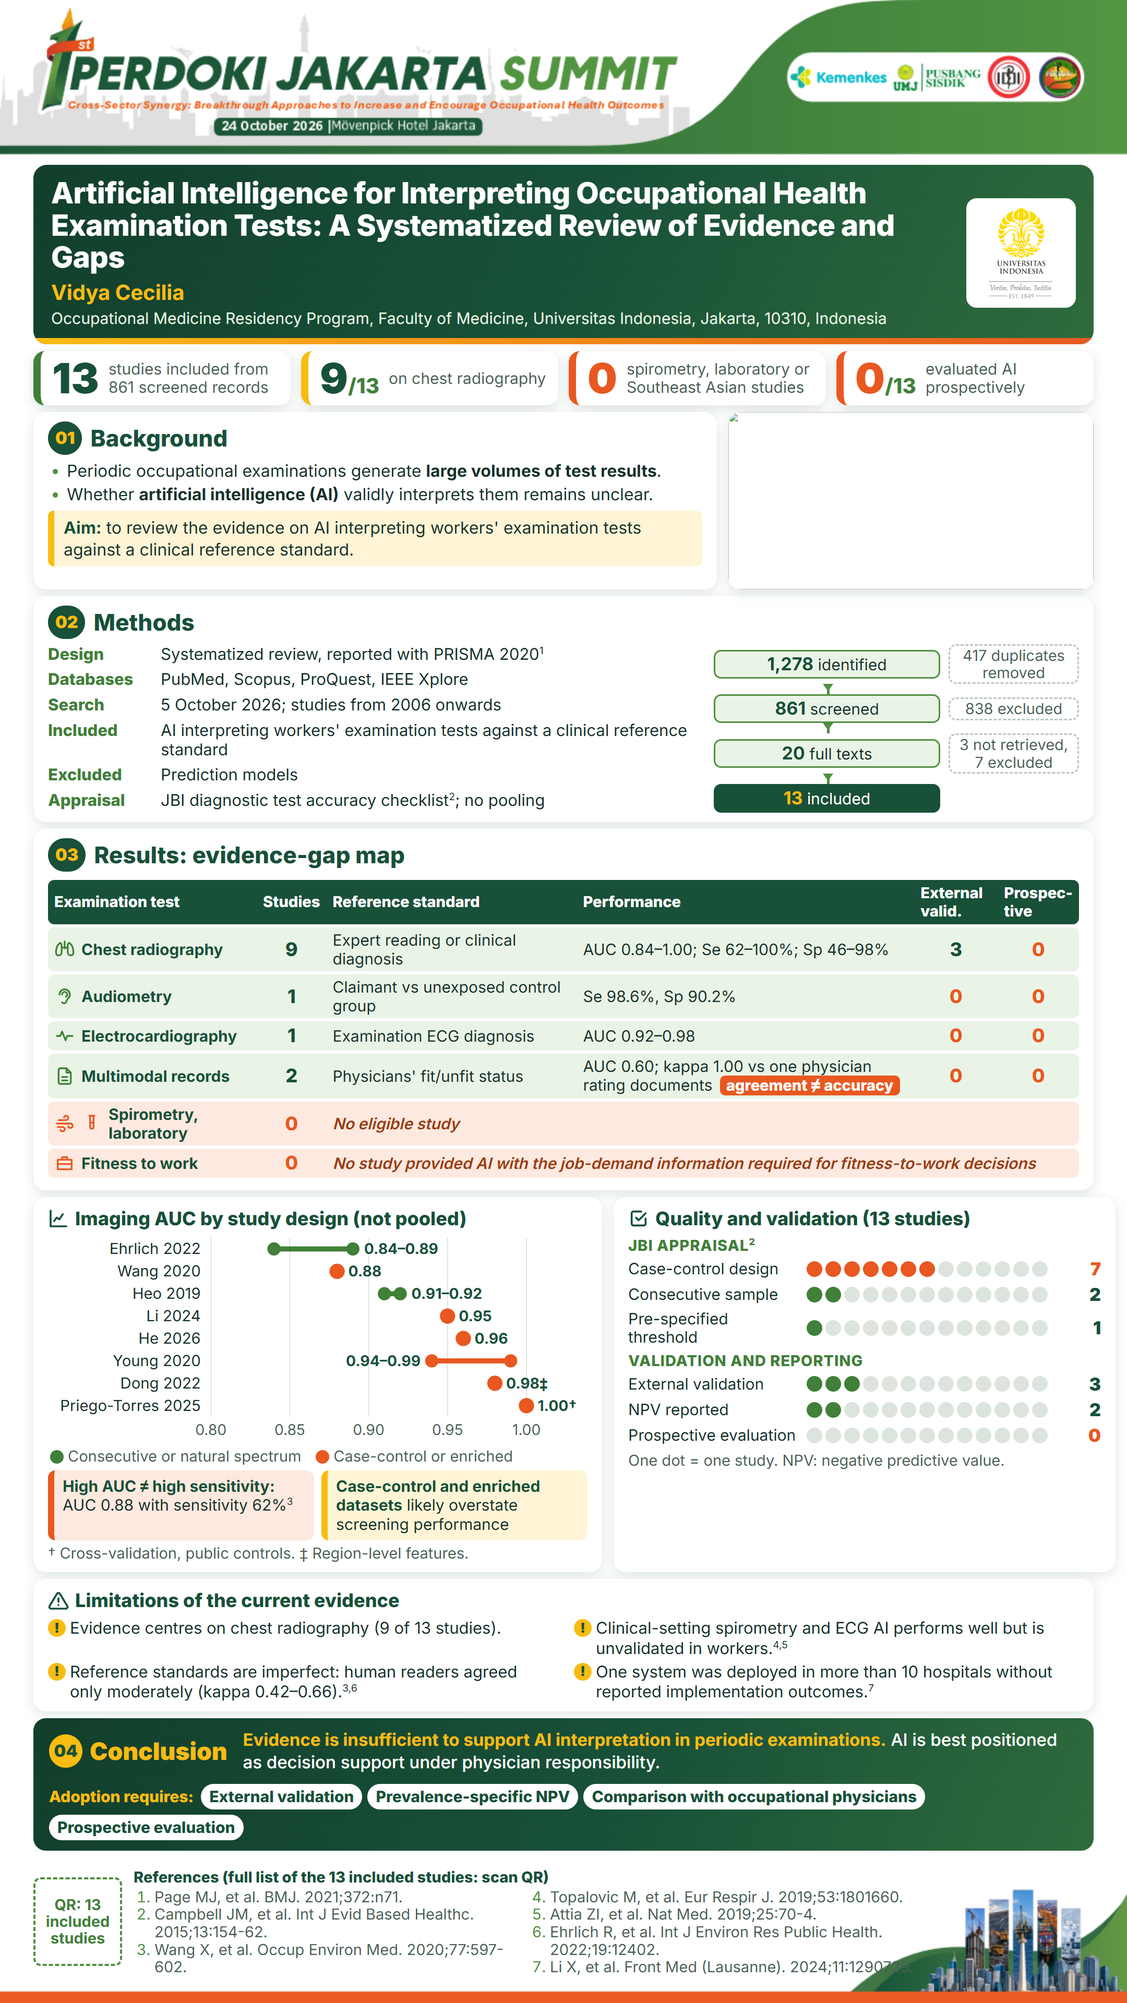
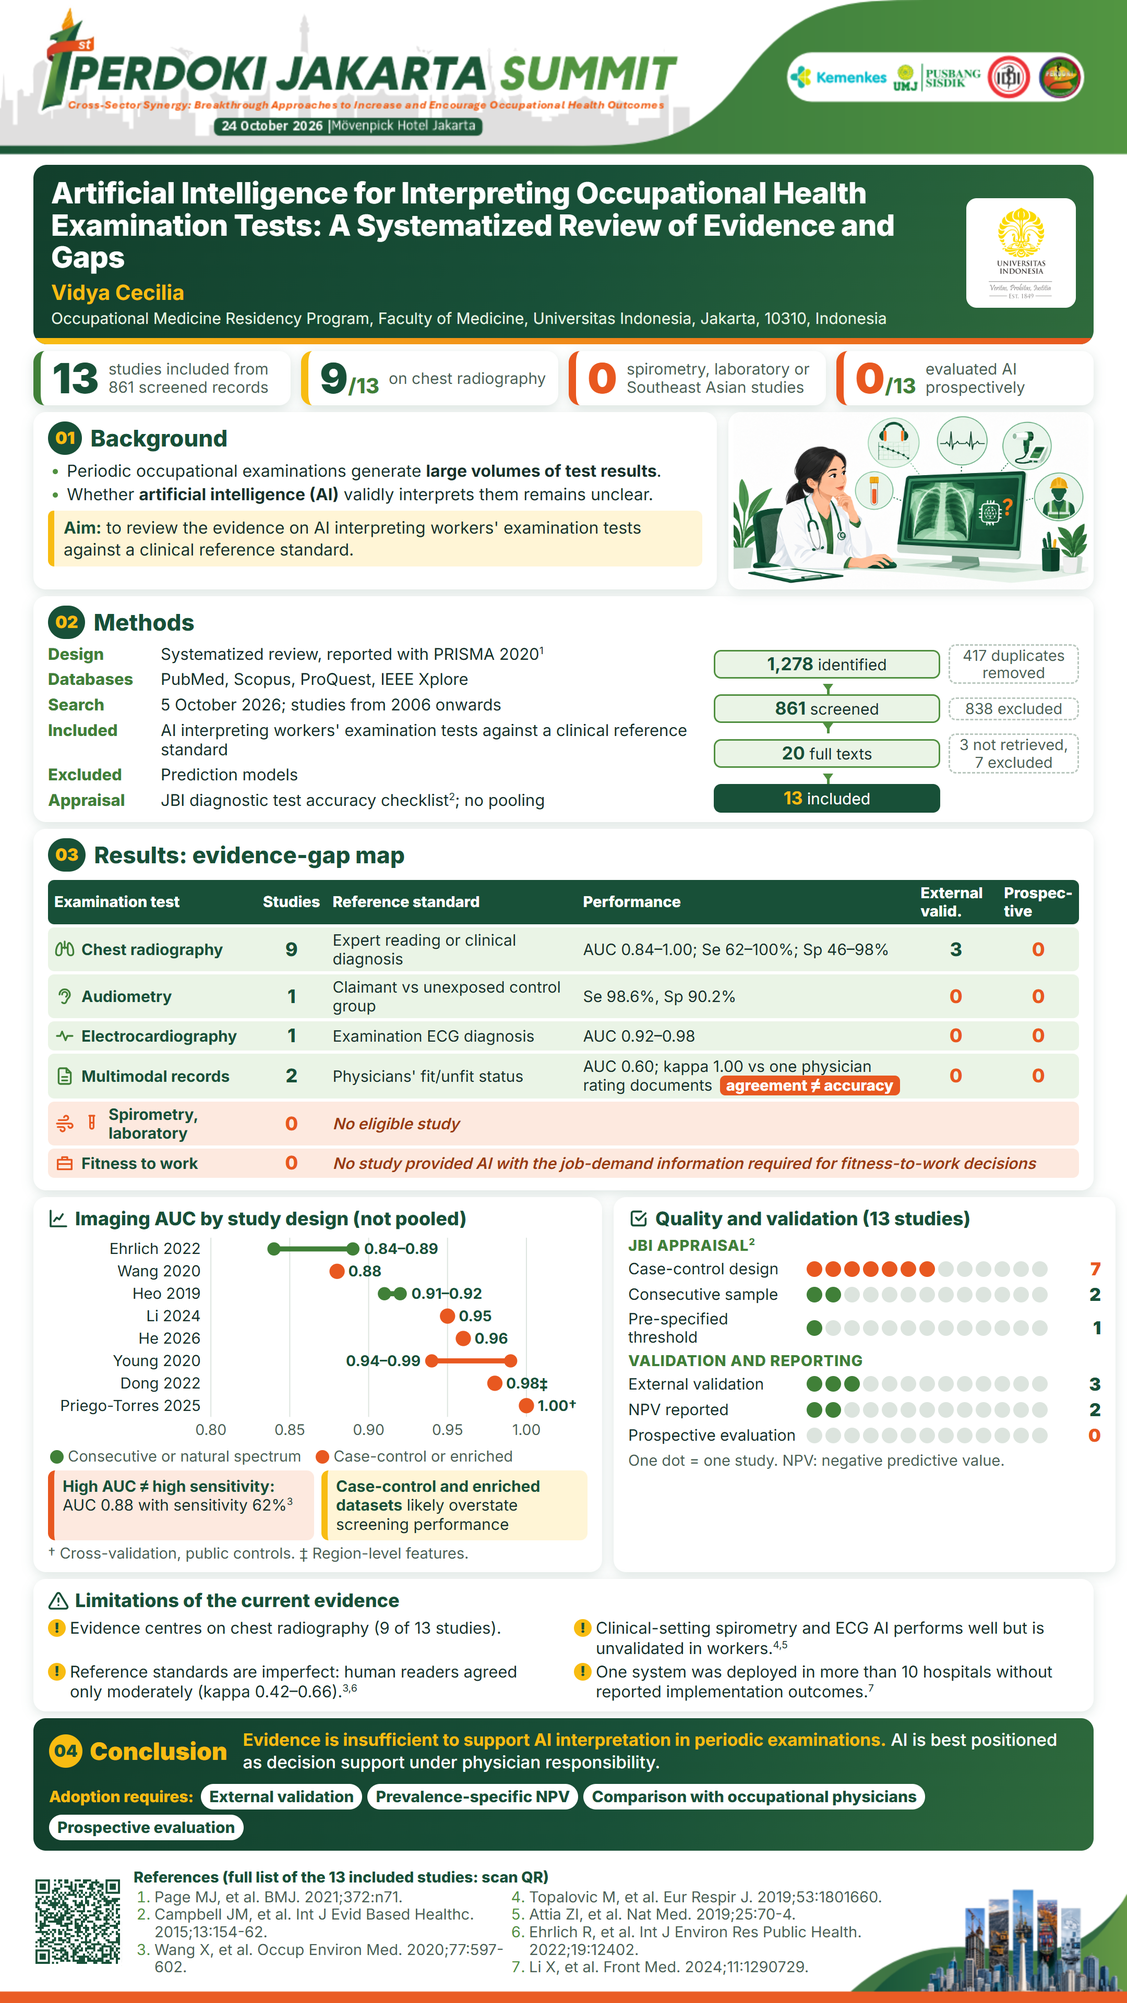
Add illustration and QR to Jakarta Summit e-poster; fit references clear of template footer

Changed region(s): [[0.6514, 0.1875, 0.9616, 0.3125], [0.4653, 0.9375, 0.7755, 1.0], [0.031, 0.9375, 0.1241, 1.0]]

diff --git a/Poster Jkt Summit eposter/supplement_gdoc.html b/Poster Jkt Summit eposter/supplement_gdoc.html
@@ -1,0 +1,10 @@
+<html><body style="font-family:Arial">
+<h1 style="color:#185038">Artificial Intelligence for Interpreting Occupational Health Examination Tests: A Systematized Review of Evidence and Gaps</h1>
+<p>Supplement to the e-poster, 1st PERDOKI Jakarta Summit 2026. Vidya Cecilia, Occupational Medicine Residency Program, Faculty of Medicine, Universitas Indonesia.</p>
+<h2 style="color:#185038">Included studies (n = 13)</h2><ol><li>Heo SJ, Kim Y, Yun S, Lim SS, Kim J, Nam CM, et al. Deep learning algorithms with demographic information help to detect tuberculosis in chest radiographs in annual workers&#x27; health examination data. Int J Environ Res Public Health. 2019;16(2):250. doi: 10.3390/ijerph16020250</li><li>Wang X, Yu J, Zhu Q, Li S, Zhao Z, Yang B, et al. Potential of deep learning in assessing pneumoconiosis depicted on digital chest radiography. Occup Environ Med. 2020;77(9):597-602. doi: 10.1136/oemed-2019-106386</li><li>Young C, Barker S, Ehrlich R, Kistnasamy B, Yassi A. Computer-aided detection for tuberculosis and silicosis in chest radiographs of gold miners of South Africa. Int J Tuberc Lung Dis. 2020;24(4):444-51. doi: 10.5588/ijtld.19.0624</li><li>Charapaqui-Miranda S, Arapa-Apaza K, Meza-Rodriguez M, Chacon-Torrico H. Comparing predictive machine learning algorithms in fit for work occupational health assessments. In: Lossio-Ventura JA, Condori-Fernandez N, Valverde-Rebaza JC, editors. Information management and big data. 6th International Conference, SIMBig 2019; 2019 Aug 21-23; Lima, Peru. Cham: Springer; 2020. p. 218-25. (Communications in computer and information science; vol. 1070). doi: 10.1007/978-3-030-46140-9_21</li><li>Ehrlich R, Barker S, Te Water Naude J, Rees D, Kistnasamy B, Naidoo J, et al. Accuracy of computer-aided detection of occupational lung disease: silicosis and pulmonary tuberculosis in ex-miners from the South African gold mines. Int J Environ Res Public Health. 2022;19(19):12402. doi: 10.3390/ijerph191912402</li><li>Wang Y, Chen Z, Tian S, Zhou S, Wang X, Xue L, et al. Convolutional neural network-based ECG-assisted diagnosis for coal workers. Int J Environ Res Public Health. 2022;20(1):9. doi: 10.3390/ijerph20010009</li><li>Li X, Xu M, Yan Z, Xia F, Li S, Zhang Y, et al. Deep convolutional network-based chest radiographs screening model for pneumoconiosis. Front Med (Lausanne). 2024;11:1290729. doi: 10.3389/fmed.2024.1290729</li><li>Liu M, Huang Z, Borek M, Loveless I, Rosenman K, Alessio A, et al. Pneumoconiosis screening and classification using deep learning models. Occup Environ Med. 2026;83(5):276-82. doi: 10.1136/oemed-2026-111040</li><li>He L, Luo Y, Lei J, Yin Q, Yang D, Zhang C, et al. [Evaluation of clinical value of interpretable Transformer-based models in computer-aided diagnosis of early-stage pneumoconiosis]. J Environ Occup Med. 2026;43(7):844-51. Chinese. doi: 10.11836/JEOM25477</li><li>Vella F, Senia P, Filetti V, Vitale E, Sferrazzo G, Privitera L, et al. Application of large language models as decision support tools in occupational health and safety management: a cohort study of industrial workers. Front Public Health. 2026;14:1815316. doi: 10.3389/fpubh.2026.1815316</li><li>Moore BCJ, Schlittenlacher J. Diagnosing noise-induced hearing loss sustained during military service using deep neural networks. Trends Hear. 2023;27:23312165231184982. doi: 10.1177/23312165231184982</li><li>Priego-Torres B, Sanchez-Morillo D, Khalili E, Conde-Sánchez MÁ, García-Gámez A, León-Jiménez A. Automated engineered-stone silicosis screening and staging using deep learning with X-rays. Comput Biol Med. 2025;191:110153. doi: 10.1016/j.compbiomed.2025.110153</li><li>Dong H, Zhu B, Zhang X, Kong X. Use data augmentation for a deep learning classification model with chest X-ray clinical imaging featuring coal workers&#x27; pneumoconiosis. BMC Pulm Med. 2022;22(1):271. doi: 10.1186/s12890-022-02068-x</li></ol>
+<h2 style="color:#185038">Study characteristics and main results</h2>
+<table border="1" style="border-collapse:collapse;font-size:9pt"><tr><th style="background-color:#185038;color:#ffffff;text-align:left">#</th><th style="background-color:#185038;color:#ffffff;text-align:left">Study</th><th style="background-color:#185038;color:#ffffff;text-align:left">Country</th><th style="background-color:#185038;color:#ffffff;text-align:left">Modality / target</th><th style="background-color:#185038;color:#ffffff;text-align:left">Reference standard</th><th style="background-color:#185038;color:#ffffff;text-align:left">Main results</th></tr><tr><td>1</td><td>Heo 2019 (PMID 30654560)</td><td>South Korea</td><td>CXR / tuberculosis</td><td>Radiologist reading under the national QA programme</td><td>Test AUC VGG19 0.9075 (image-only) to 0.9213 (+ demographics), p &lt; 0.05</td></tr><tr><td>2</td><td>Wang 2020 (PMID 32471837)</td><td>China</td><td>CXR / pneumoconiosis vs normal</td><td>Expert panel (1 certified radiologist + 4 occupational physicians), ILO</td><td>AUC 0.878 (95% CI 0.811-0.946) vs radiologists 0.668 and 0.772</td></tr><tr><td>3</td><td>Young 2020 (PMID 32317070)</td><td>South Africa</td><td>CXR / silicosis, TB, silicotuberculosis</td><td>Radiologist + 3 physicians (board); 4 expert readers (screening set)</td><td>Best system AUC 0.986 for any abnormality (Se 98.2, Sp 98.2); TB vs normal 0.989; silicosis vs normal 0.986 (system A), 0.939 (B)</td></tr><tr><td>4</td><td>Charapaqui-Miranda 2020 (Scopus 85084850887)</td><td>Peru</td><td>Multimodal exam data / work-entry MCU fit/unfit category (fit or fit with modifications vs unfit)</td><td>Fit/unfit result recorded by the examining doctor (MCU status, not a 7-step fitness-to-work assessment)</td><td>Best model logistic regression: AUC 60.4%, accuracy 68.1%</td></tr><tr><td>5</td><td>Ehrlich 2022 (PMID 36231700)</td><td>South Africa</td><td>CXR / silicosis, TB, any abnormality</td><td>2 occupational medicine specialists (reader 2 = consensus of two)</td><td>Silicosis AUC 0.883 and 0.839 (ILO &gt;= 1/0), 0.887 and 0.892 (&gt;= 1/1) vs reader 1 and 2 (system A)</td></tr><tr><td>6</td><td>Wang 2022/2023 (PMID 36612331)</td><td>China</td><td>12-lead ECG / 4 abnormal ECG classes</td><td>ECG diagnosis from the examination (cardiologist-performed ECG; labelling procedure not stated explicitly)</td><td>Test accuracy 93.0-97.7%, AUC 0.92-0.98 across 4 ECG classes</td></tr><tr><td>7</td><td>Li 2024 (PMID 38348336)</td><td>China</td><td>CXR / pneumoconiosis vs normal</td><td>10 occupational disease experts + 2 radiologists, 3-5 labellers per film</td><td>Validation set (261 pneumoconiosis, 234 non): accuracy 95%, AUC 0.947</td></tr><tr><td>8</td><td>Liu 2026 (PMID 42457633)</td><td>USA</td><td>CXR / 4 ILO-aligned tasks (1-2 screening, 3-4 grading)</td><td>Consensus of certified B-readers (2 + third on disagreement)</td><td>In-distribution accuracy 0.93, 0.92, 0.91 (tasks 1-3), 0.83 (task 4) vs B-readers 0.90, 0.91, 0.77, 0.86</td></tr><tr><td>9</td><td>He 2026 (Scopus 105046943496)</td><td>China</td><td>CXR / early pneumoconiosis, binary</td><td>Consensus of 3 senior radiologists</td><td>CrossFormer AUC 0.962 (95% CI 0.945-0.979), accuracy 92.0%, F1 0.916</td></tr><tr><td>10</td><td>Vella 2026 (PMID 42180469)</td><td>Italy</td><td>Occupational health records / risk assessment, surveillance protocol, fitness judgements from documents only (4 categories; not a 7-step fitness-to-work assessment)</td><td>Experienced occupational physician</td><td>Perfect concordance of document-based fitness judgments between LLM and physician</td></tr><tr><td>11</td><td>Moore 2023 (PMID 37550005)</td><td>UK</td><td>Pure-tone audiometry 1-8 kHz both ears + age / military noise-induced hearing loss</td><td>Group membership: claimant with medical report excluding other causes vs unexposed control (no individual diagnosis)</td><td>MLP(18) on test databases: Se 98.6, Sp 90.2, d&#x27; 3.49 (rule-based methods Sp 40-64)</td></tr><tr><td>12</td><td>Priego-Torres 2025 (PMID 40252290)</td><td>Spain</td><td>CXR / silicosis screening (healthy vs silicosis) and staging (SS vs PMF)</td><td>Clinical diagnosis: exposure history, ILO reading and HRCT (ICOERD), some biopsy; controls labelled normal in VinDr</td><td>Screening AUC 1.00, accuracy 0.97-0.99 (4 CNNs); staging SS vs PMF accuracy 0.81-0.84, AUC 0.91-0.94</td></tr><tr><td>13</td><td>Dong 2022 (PMID 35840945)</td><td>China</td><td>CXR / CWP radiographic features (nodules, interstitial change, emphysema)</td><td>Reports from 3 radiologists, reviewed by 2 senior radiologists</td><td>Average AUC 0.98 (nodules 0.97, interstitial 0.96, emphysema 1.00); accuracy 0.96</td></tr></table>
+<h2 style="color:#185038">JBI diagnostic test accuracy checklist (item level; no overall score)</h2>
+<table border="1" style="border-collapse:collapse;font-size:9pt"><tr><th style="background-color:#185038;color:#ffffff;text-align:left">#</th><th style="background-color:#185038;color:#ffffff;text-align:left">Study</th><th style="background-color:#185038;color:#ffffff;text-align:left">Q1</th><th style="background-color:#185038;color:#ffffff;text-align:left">Q2</th><th style="background-color:#185038;color:#ffffff;text-align:left">Q3</th><th style="background-color:#185038;color:#ffffff;text-align:left">Q4</th><th style="background-color:#185038;color:#ffffff;text-align:left">Q5</th><th style="background-color:#185038;color:#ffffff;text-align:left">Q6</th><th style="background-color:#185038;color:#ffffff;text-align:left">Q7</th><th style="background-color:#185038;color:#ffffff;text-align:left">Q8</th><th style="background-color:#185038;color:#ffffff;text-align:left">Q9</th><th style="background-color:#185038;color:#ffffff;text-align:left">Q10</th><th style="background-color:#185038;color:#ffffff;text-align:left">Yes</th></tr><tr><td>1</td><td>Heo 2019</td><td style="background-color:#D5EBCF;text-align:center">Y</td><td style="background-color:#D5EBCF;text-align:center">Y</td><td style="background-color:#FFF5D6;text-align:center">U</td><td style="background-color:#D5EBCF;text-align:center">Y</td><td style="background-color:#FDE0D2;text-align:center">N</td><td style="background-color:#FFF5D6;text-align:center">U</td><td style="background-color:#D5EBCF;text-align:center">Y</td><td style="background-color:#D5EBCF;text-align:center">Y</td><td style="background-color:#D5EBCF;text-align:center">Y</td><td style="background-color:#FFF5D6;text-align:center">U</td><td>6/10</td></tr><tr><td>2</td><td>Wang 2020</td><td style="background-color:#FFF5D6;text-align:center">U</td><td style="background-color:#FDE0D2;text-align:center">N</td><td style="background-color:#FFF5D6;text-align:center">U</td><td style="background-color:#D5EBCF;text-align:center">Y</td><td style="background-color:#FFF5D6;text-align:center">U</td><td style="background-color:#D5EBCF;text-align:center">Y</td><td style="background-color:#D5EBCF;text-align:center">Y</td><td style="background-color:#D5EBCF;text-align:center">Y</td><td style="background-color:#D5EBCF;text-align:center">Y</td><td style="background-color:#FFF5D6;text-align:center">U</td><td>5/10</td></tr><tr><td>3</td><td>Young 2020</td><td style="background-color:#FDE0D2;text-align:center">N</td><td style="background-color:#FDE0D2;text-align:center">N</td><td style="background-color:#FDE0D2;text-align:center">N</td><td style="background-color:#D5EBCF;text-align:center">Y</td><td style="background-color:#FDE0D2;text-align:center">N</td><td style="background-color:#D5EBCF;text-align:center">Y</td><td style="background-color:#D5EBCF;text-align:center">Y</td><td style="background-color:#D5EBCF;text-align:center">Y</td><td style="background-color:#D5EBCF;text-align:center">Y</td><td style="background-color:#FFF5D6;text-align:center">U</td><td>5/10</td></tr><tr><td>4</td><td>Charapaqui-Miranda 2020</td><td style="background-color:#FFF5D6;text-align:center">U</td><td style="background-color:#D5EBCF;text-align:center">Y</td><td style="background-color:#FDE0D2;text-align:center">N</td><td style="background-color:#D5EBCF;text-align:center">Y</td><td style="background-color:#FFFFFF;text-align:center">NA</td><td style="background-color:#FFF5D6;text-align:center">U</td><td style="background-color:#D5EBCF;text-align:center">Y</td><td style="background-color:#D5EBCF;text-align:center">Y</td><td style="background-color:#D5EBCF;text-align:center">Y</td><td style="background-color:#FDE0D2;text-align:center">N</td><td>5/10</td></tr><tr><td>5</td><td>Ehrlich 2022</td><td style="background-color:#D5EBCF;text-align:center">Y</td><td style="background-color:#D5EBCF;text-align:center">Y</td><td style="background-color:#D5EBCF;text-align:center">Y</td><td style="background-color:#D5EBCF;text-align:center">Y</td><td style="background-color:#D5EBCF;text-align:center">Y</td><td style="background-color:#FFF5D6;text-align:center">U</td><td style="background-color:#D5EBCF;text-align:center">Y</td><td style="background-color:#D5EBCF;text-align:center">Y</td><td style="background-color:#D5EBCF;text-align:center">Y</td><td style="background-color:#D5EBCF;text-align:center">Y</td><td>9/10</td></tr><tr><td>6</td><td>Wang 2023 (ECG)</td><td style="background-color:#FFF5D6;text-align:center">U</td><td style="background-color:#D5EBCF;text-align:center">Y</td><td style="background-color:#FFF5D6;text-align:center">U</td><td style="background-color:#D5EBCF;text-align:center">Y</td><td style="background-color:#FFF5D6;text-align:center">U</td><td style="background-color:#FFF5D6;text-align:center">U</td><td style="background-color:#FFF5D6;text-align:center">U</td><td style="background-color:#D5EBCF;text-align:center">Y</td><td style="background-color:#FFF5D6;text-align:center">U</td><td style="background-color:#FFF5D6;text-align:center">U</td><td>3/10</td></tr><tr><td>7</td><td>Li 2024</td><td style="background-color:#FDE0D2;text-align:center">N</td><td style="background-color:#FDE0D2;text-align:center">N</td><td style="background-color:#FFF5D6;text-align:center">U</td><td style="background-color:#D5EBCF;text-align:center">Y</td><td style="background-color:#FFF5D6;text-align:center">U</td><td style="background-color:#FFF5D6;text-align:center">U</td><td style="background-color:#FFF5D6;text-align:center">U</td><td style="background-color:#D5EBCF;text-align:center">Y</td><td style="background-color:#D5EBCF;text-align:center">Y</td><td style="background-color:#D5EBCF;text-align:center">Y</td><td>4/10</td></tr><tr><td>8</td><td>Liu 2026</td><td style="background-color:#FDE0D2;text-align:center">N</td><td style="background-color:#FFF5D6;text-align:center">U</td><td style="background-color:#FFF5D6;text-align:center">U</td><td style="background-color:#D5EBCF;text-align:center">Y</td><td style="background-color:#FFF5D6;text-align:center">U</td><td style="background-color:#D5EBCF;text-align:center">Y</td><td style="background-color:#D5EBCF;text-align:center">Y</td><td style="background-color:#D5EBCF;text-align:center">Y</td><td style="background-color:#D5EBCF;text-align:center">Y</td><td style="background-color:#D5EBCF;text-align:center">Y</td><td>6/10</td></tr><tr><td>9</td><td>He 2026</td><td style="background-color:#FDE0D2;text-align:center">N</td><td style="background-color:#FDE0D2;text-align:center">N</td><td style="background-color:#FDE0D2;text-align:center">N</td><td style="background-color:#D5EBCF;text-align:center">Y</td><td style="background-color:#FFF5D6;text-align:center">U</td><td style="background-color:#D5EBCF;text-align:center">Y</td><td style="background-color:#D5EBCF;text-align:center">Y</td><td style="background-color:#D5EBCF;text-align:center">Y</td><td style="background-color:#D5EBCF;text-align:center">Y</td><td style="background-color:#D5EBCF;text-align:center">Y</td><td>6/10</td></tr><tr><td>10</td><td>Vella 2026 (LLM)</td><td style="background-color:#FFF5D6;text-align:center">U</td><td style="background-color:#D5EBCF;text-align:center">Y</td><td style="background-color:#FFF5D6;text-align:center">U</td><td style="background-color:#FFF5D6;text-align:center">U</td><td style="background-color:#FFFFFF;text-align:center">NA</td><td style="background-color:#FFF5D6;text-align:center">U</td><td style="background-color:#D5EBCF;text-align:center">Y</td><td style="background-color:#D5EBCF;text-align:center">Y</td><td style="background-color:#D5EBCF;text-align:center">Y</td><td style="background-color:#D5EBCF;text-align:center">Y</td><td>5/10</td></tr><tr><td>11</td><td>Moore 2023 (audiometry)</td><td style="background-color:#FDE0D2;text-align:center">N</td><td style="background-color:#FDE0D2;text-align:center">N</td><td style="background-color:#FFF5D6;text-align:center">U</td><td style="background-color:#D5EBCF;text-align:center">Y</td><td style="background-color:#FFF5D6;text-align:center">U</td><td style="background-color:#FDE0D2;text-align:center">N</td><td style="background-color:#D5EBCF;text-align:center">Y</td><td style="background-color:#D5EBCF;text-align:center">Y</td><td style="background-color:#FDE0D2;text-align:center">N</td><td style="background-color:#D5EBCF;text-align:center">Y</td><td>4/10</td></tr><tr><td>12</td><td>Priego-Torres 2025</td><td style="background-color:#FDE0D2;text-align:center">N</td><td style="background-color:#FDE0D2;text-align:center">N</td><td style="background-color:#FFF5D6;text-align:center">U</td><td style="background-color:#D5EBCF;text-align:center">Y</td><td style="background-color:#FFFFFF;text-align:center">NA</td><td style="background-color:#D5EBCF;text-align:center">Y</td><td style="background-color:#D5EBCF;text-align:center">Y</td><td style="background-color:#FFF5D6;text-align:center">U</td><td style="background-color:#FDE0D2;text-align:center">N</td><td style="background-color:#D5EBCF;text-align:center">Y</td><td>4/10</td></tr><tr><td>13</td><td>Dong 2022</td><td style="background-color:#FDE0D2;text-align:center">N</td><td style="background-color:#FDE0D2;text-align:center">N</td><td style="background-color:#FDE0D2;text-align:center">N</td><td style="background-color:#FDE0D2;text-align:center">N</td><td style="background-color:#FFFFFF;text-align:center">NA</td><td style="background-color:#D5EBCF;text-align:center">Y</td><td style="background-color:#D5EBCF;text-align:center">Y</td><td style="background-color:#D5EBCF;text-align:center">Y</td><td style="background-color:#D5EBCF;text-align:center">Y</td><td style="background-color:#FFF5D6;text-align:center">U</td><td>4/10</td></tr></table>
+<p style="margin-top:3mm">Y yes · N no · U unclear · NA not applicable. Q1 consecutive or random sample; Q2 case-control design avoided; Q3 inappropriate exclusions avoided; Q4 index test read without knowledge of the reference; Q5 threshold pre-specified; Q6 reference standard likely correct; Q7 reference read without knowledge of the index test; Q8 appropriate interval; Q9 same reference for all; Q10 all participants analysed.</p>
+</body></html>

diff --git a/Poster Jkt Summit eposter/poster.html b/Poster Jkt Summit eposter/poster.html
@@ -118,8 +118,8 @@
   .req span.c{background:#fff;color:var(--g900);font-weight:800;border-radius:30px;padding:5px 16px}
 
   /* references */
-  .refs{position:absolute;left:64px;top:3574px;width:1720px;height:220px;display:grid;grid-template-columns:170px 1fr;gap:22px;align-items:center}
-  .qr{width:170px;height:170px;border:4px dashed var(--g500);border-radius:14px;display:flex;align-items:center;justify-content:center;text-align:center;font-size:29px;color:var(--g600);font-weight:700;line-height:1.1;background:#fff}
+  .refs{position:absolute;left:64px;top:3574px;width:1640px;height:220px;display:grid;grid-template-columns:170px 1fr;gap:22px;align-items:center}
+  .qr{width:170px;height:170px;border:0;border-radius:14px;display:flex;align-items:center;justify-content:center;text-align:center;font-size:29px;color:var(--g600);font-weight:700;line-height:1.1;background:#fff}
   .qr img{width:100%;height:100%}
   .refs ol{columns:2;column-gap:28px;font-size:29px;line-height:1.16;color:var(--muted);padding-left:40px}
   .refs li{margin-bottom:0;break-inside:avoid}
@@ -295,7 +295,7 @@
       <li>Topalovic M, et al. Eur Respir J. 2019;53:1801660.</li>
       <li>Attia ZI, et al. Nat Med. 2019;25:70-4.</li>
       <li>Ehrlich R, et al. Int J Environ Res Public Health. 2022;19:12402.</li>
-      <li>Li X, et al. Front Med (Lausanne). 2024;11:1290729.</li>
+      <li>Li X, et al. Front Med. 2024;11:1290729.</li>
     </ol>
   </div>
 </div>
